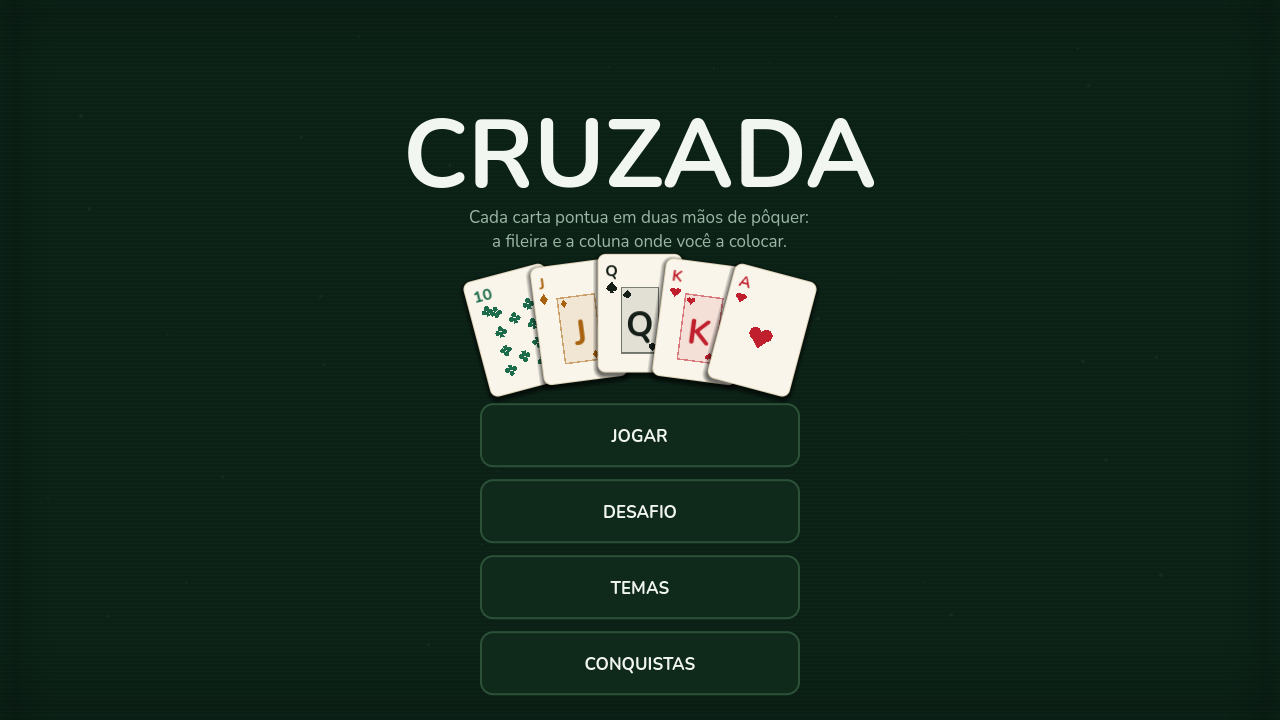
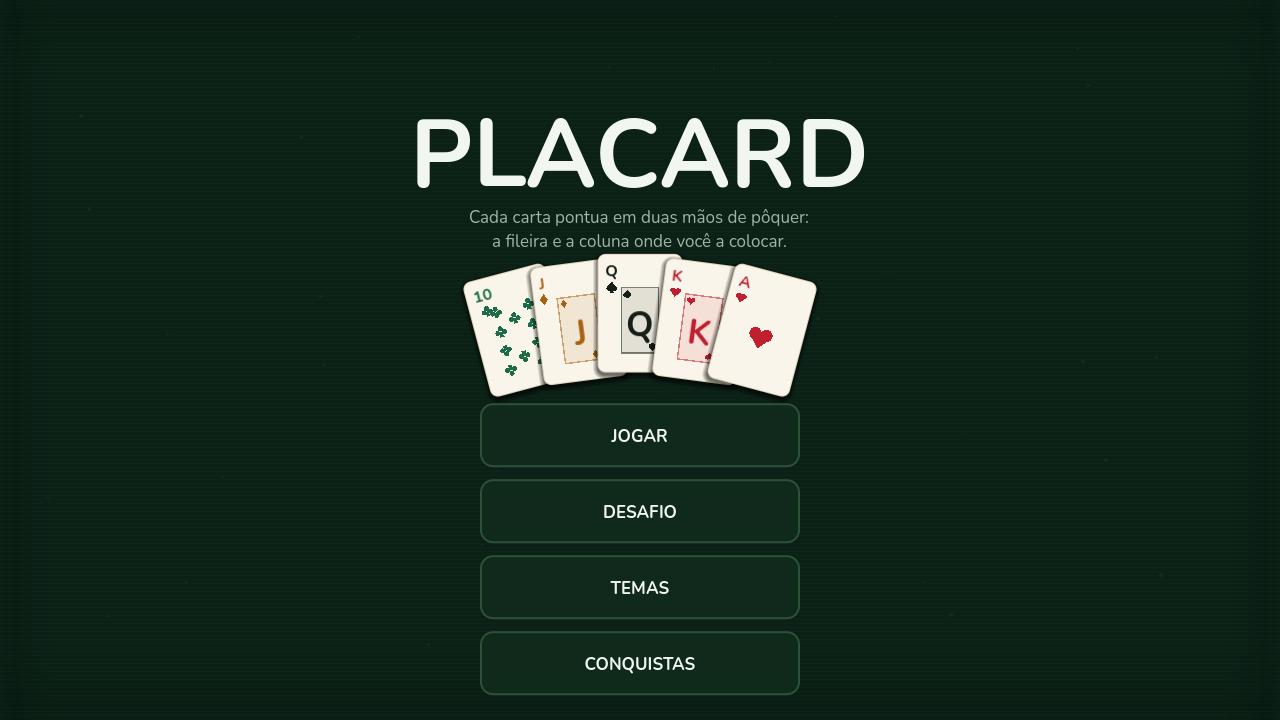
O jogo se chama PLACARD
CARD está escrito dentro do nome, e a leitura do nome é a mecânica: place a
card. É o que o jogo pede a cada turno, virado em substantivo. Nenhum dos
dezoito nomes queimados antes dele juntava as duas coisas — ou dizia carta e
não dizia a jogada, ou dizia a jogada e não dizia carta.

A jogada continua se chamando CRUZADA. Colher fileira e coluna de uma vez é o
que a palavra-cruzada faz, e em português a palavra está certa; o que precisava
ser universal era o título, nunca a jogada. Por isso a troca é cirúrgica: "do
CRUZADA" (o jogo) virou "do PLACARD", enquanto CRUZADA DO CENTRO,
GEO_CRUZADA_SO_DIFERENTES e a DICA de mesmo nome ficaram como estavam.

Os dois nomes têm sete letras, então nem a tipografia nem o layout se mexem —
TIPOGRAFIA, LAYOUT e CONTRASTE passam sem tocar em nenhum número.

522 asserções, aferição, 24 capturas.

Claude-Session: https://claude.ai/code/session_01GLaEZ2FdtTfh13Af33yCTH

Changed region(s): [[0.3125, 0.1528, 0.6875, 0.275]]

diff --git a/cruzada/NOME.md b/cruzada/NOME.md
@@ -1,5 +1,34 @@
 # Briefing para nomear o jogo
 
+> ## ✅ RESOLVIDO: o jogo se chama **PLACARD**
+>
+> Encerrado em 4 de setembro de 2026, depois de seis rodadas de busca e
+> dezoito nomes queimados.
+>
+> **Por que PLACARD ganhou.** É a única palavra achada em que a coisa que o
+> jogador segura está *escrita dentro do nome* — **CARD** — e em que a leitura
+> do nome é a mecânica: **place a card**. Foi o que o jogo pede de você, turno
+> após turno, virado em substantivo.
+>
+> Passa nas quatro restrições duras: não lê como kart, não tem cheiro de
+> cassino, descreve a mecânica em vez de anunciar "isto tem cartas", e a
+> checagem de colisão não achou jogo nenhum com esse título.
+>
+> **As duas manchas, ditas na cara.** A piada é visual, não sonora — fala-se
+> *PLÁK-ard*, não *pleiss-a-card*. E em francês e em espanhol *placard* é
+> **armário**. Nenhuma das duas é fatal: CARD aparece intacto em qualquer
+> língua de alfabeto latino, e nenhum outro sobrevivente juntava as duas
+> coisas que importam.
+>
+> **A jogada continua se chamando CRUZADA.** Colher fileira e coluna de uma vez
+> é o que a palavra-cruzada faz, e em português a palavra está certa. O que
+> precisava ser universal era o título, nunca a jogada.
+>
+> *O resto do documento fica como registro da busca — e de por que os outros
+> dezoito não serviram.*
+
+---
+
 *Cole este arquivo inteiro numa conversa com qualquer IA. Ele é autocontido: quem
 o receber não precisa de nenhum outro contexto.*
 

diff --git a/cruzada/HUD.md b/cruzada/HUD.md
@@ -1,4 +1,4 @@
-# CRUZADA — estudo de HUD
+# PLACARD — estudo de HUD
 
 Documento de decisão da tela de partida. Cada número aqui foi conferido com o layout rodando,
 não estimado. Escrito antes das regras do jogo porque a direção de arte define a estrutura de
@@ -124,7 +124,7 @@ tela, e a escala mora em `temas.gd` junto das cores — o validador só confere.
 | `T_ROTULO` | **14** | PONTOS, MÃOS, RODADA, VIDAS, MESA — caixa alta | — |
 | `T_CORPO` | **17** | nomes das mãos, frases, botões, contadores | ×1,21 |
 | `T_NUMERO` | **21** | fichas e multiplicadores da tabela | ×1,24 |
-| `T_TITULO` | **26** | CRUZADA | ×1,24 |
+| `T_TITULO` | **26** | PLACARD | ×1,24 |
 | `T_HEROI` | **52** | a pontuação e o multiplicador da mesa | ×2,00 |
 
 O salto de `TITULO` para `HEROI` é ×2 **de propósito**: não é degrau da escala, é quebra de

diff --git a/cruzada/README.md b/cruzada/README.md
@@ -1,4 +1,4 @@
-# CRUZADA
+# PLACARD
 
 Roguelike de pôquer em grade 5×5. Godot 4.7.2, GDScript, arte 100% por código.
 
@@ -48,7 +48,7 @@ estouro de `Control`. Em 3D, "ficou bonito" não tem teste.
 ## Os oito temas
 
 **O padrão é o Feltro e ouro** — o único dos oito em que uma pessoa que nunca ouviu falar do
-CRUZADA sabe que é um jogo de cartas antes de ler qualquer palavra.
+PLACARD sabe que é um jogo de cartas antes de ler qualquer palavra.
 
 Os outros são desbloqueáveis, **exceto os dois de fundo claro**, que ficam liberados desde o
 início: fundo claro é afordância de acessibilidade e não cosmético de recompensa. O Neon arcade é

diff --git a/cruzada/DESIGN.md b/cruzada/DESIGN.md
@@ -1,4 +1,4 @@
-# CRUZADA — as regras
+# PLACARD — as regras
 
 > **Cada carta pontua em duas mãos de pôquer: a linha e a coluna onde você a colocar.**
 
@@ -113,7 +113,7 @@ virou o comum (71% dos eventos):
 | **CRUZ TOTAL** | quatro linhas | 0,85% |
 
 A CRUZ TOTAL custa 17 posicionamentos e cabe **exatamente** numa mesa Grande. É o melhor jogo
-do CRUZADA e precisa ter nome na tela.
+do PLACARD e precisa ter nome na tela.
 
 ---
 
